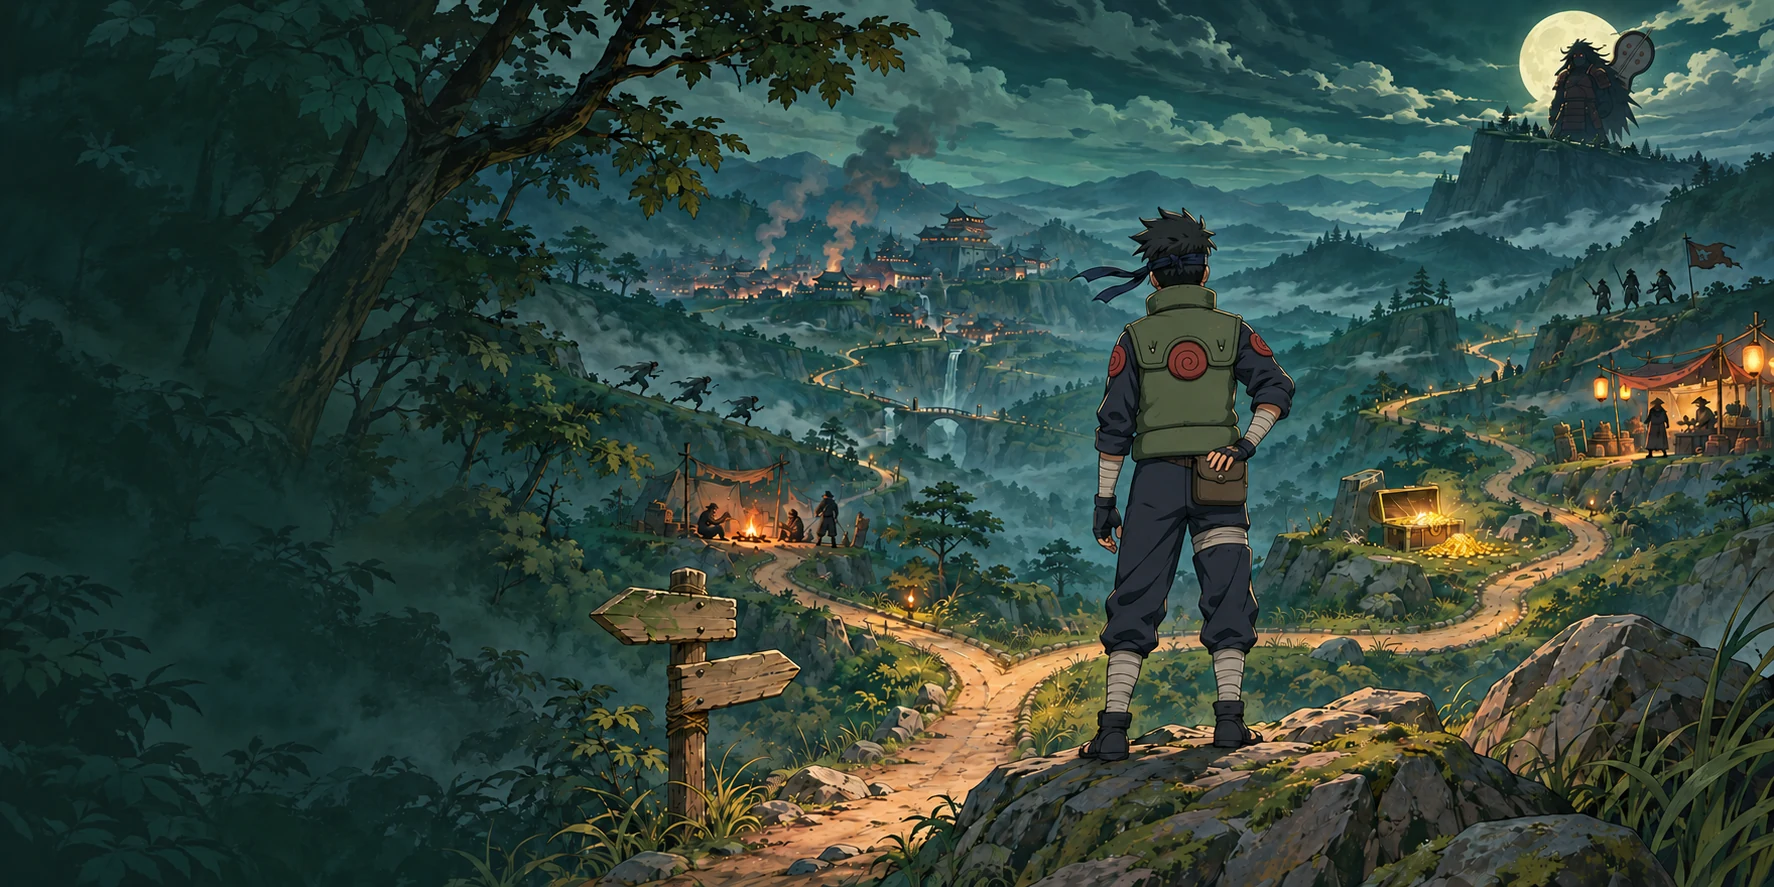
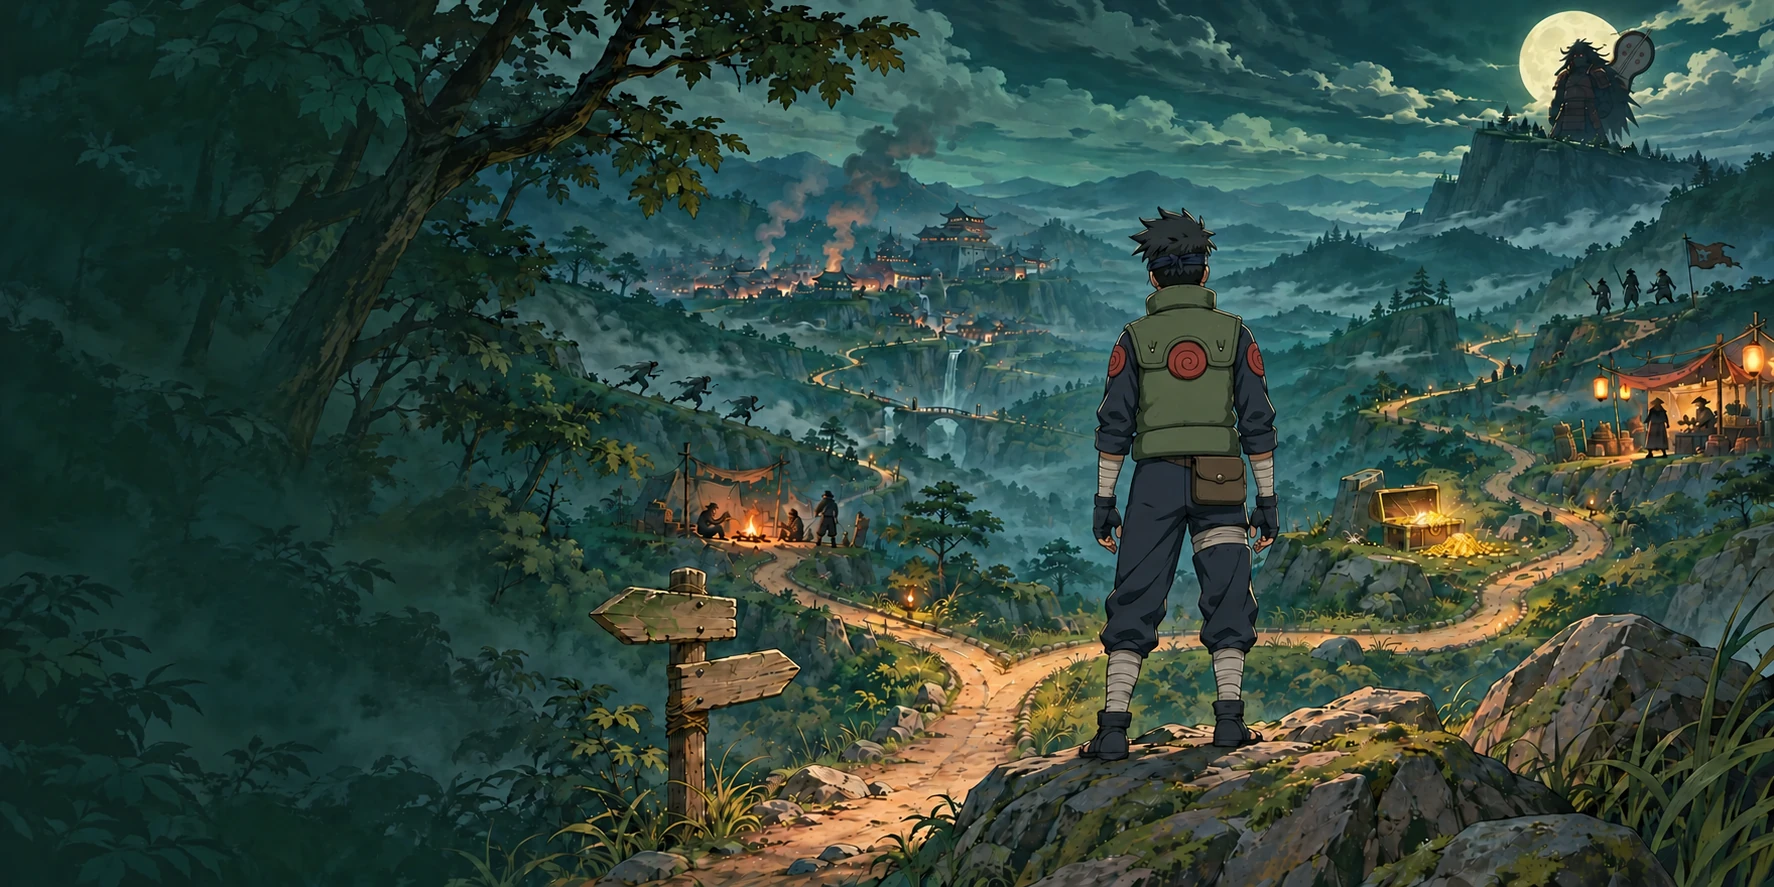
Ajuste a bandana e a postura do ninja da Campanha
- Simplifique o no na nuca e deixe o braco direito em repouso ao lado do corpo.

diff --git a/docs/tarefas/postura-ninja-campanha.md b/docs/tarefas/postura-ninja-campanha.md
@@ -1,0 +1,11 @@
+---
+objetivo: Simplificar o nó da bandana e dar ao ninja da Campanha uma postura de descanso.
+escopo: ["public/img/cenas/caminho-ninja.webp", "docs/tarefas/postura-ninja-campanha.md", "changelog.d/postura-ninja-campanha.md"]
+fora: ["prototype/**", "src/**"]
+pronto: ["Um único nó na nuca", "Braços relaxados junto ao corpo", "Arte conferida no painel", "npm run check verde"]
+agente: codex
+---
+
+# Postura do ninja da Campanha
+
+Recolher as pontas da bandana e redesenhar o braço direito ao lado do corpo. Conferir o contorno do pulso e da mão junto à coxa, o nó na nuca e os três emblemas Uzumaki na arte final.

diff --git a/changelog.d/postura-ninja-campanha.md b/changelog.d/postura-ninja-campanha.md
@@ -1,0 +1,1 @@
+Na ilustração da Campanha, o ninja observa o vale com os braços relaxados e a bandana presa por um nó curto na nuca.
